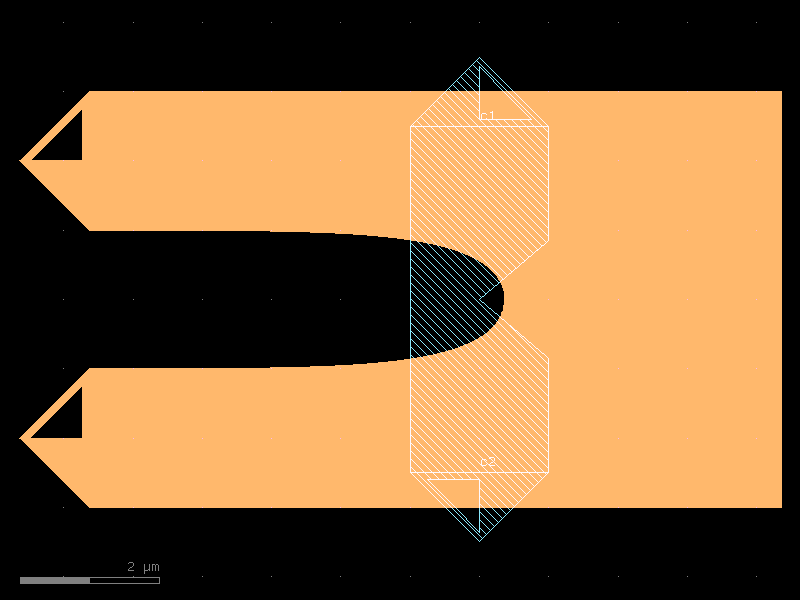
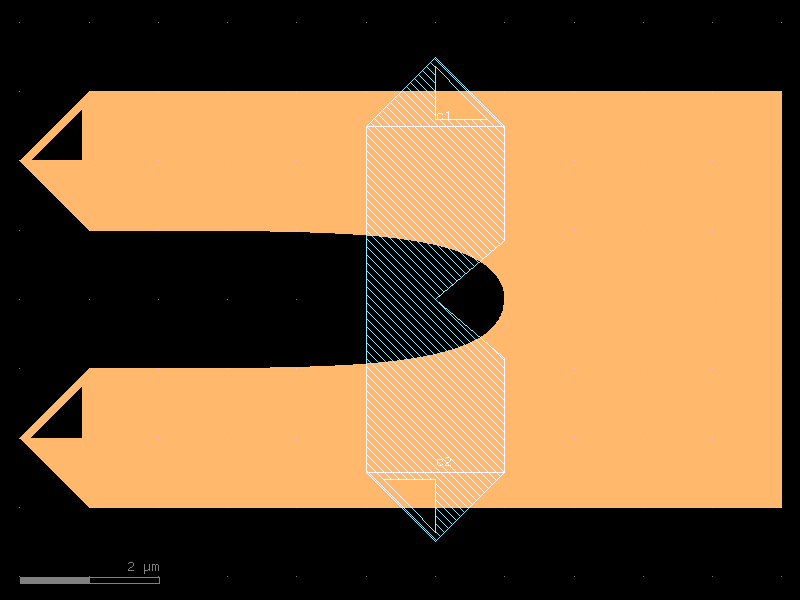
change optimal hairpin placement, update diode to get a reasonable spacing between turn in hairpin and notch

Changed region(s): [[0.4688, 0.09, 0.6875, 0.9]]

diff --git a/src/qnngds/devices/diode.py b/src/qnngds/devices/diode.py
@@ -48,11 +48,11 @@ def basic(
     ]
 
     DIODE.add_polygon(points, layer=layer)
-    DIODE.move(DIODE.center, (0, 0))
+    DIODE.move((DIODE.x + width / 2 - notch_depth, DIODE.y), (0, 0))
 
     DIODE.add_port(
         name="e1",
-        center=(0, length / 2),
+        center=(DIODE.x, length / 2),
         width=width,
         orientation=90,
         layer=layer,
@@ -61,7 +61,7 @@ def basic(
 
     DIODE.add_port(
         name="e2",
-        center=(0, -length / 2),
+        center=(DIODE.x, -length / 2),
         width=width,
         orientation=270,
         layer=layer,
@@ -91,6 +91,7 @@ def gated(
 
     channel = DIODE << gf.get_component(channel_spec)
     gate = DIODE << gf.get_component(gate_spec)
+    gate.movex(channel.ports["e1"].width / 2)
     for n, port in enumerate(channel.ports):
         DIODE.add_port(name=f"c{n + 1}", port=port)
     for n, port in enumerate(gate.ports):

diff --git a/src/qnngds/geometries.py b/src/qnngds/geometries.py
@@ -405,6 +405,8 @@ def optimal_hairpin(
     based on phidl.geometry and gdsfactory. Used instead of gdsfactory due to
     `snapping issue <https://github.com/gdsfactory/gdsfactory/pull/3816>`_.
 
+    Also centers apex of hairpin at (0, 0)
+
     Args:
         width: Width of the hairpin leads.
         pitch: Distance between the two hairpin leads. Must be greater than width.
@@ -454,6 +456,8 @@ def optimal_hairpin(
     ypts = ypts[::-ds_factor]
     ypts = ypts[::-1]  # so the last point is guaranteed to be included when downsampled
 
+    apex = (xpts[-1], 0)
+
     # Add points for the rest of meander
     xpts.append(xpts[-1] + turn_ratio * width)
     ypts.append(0)
@@ -497,6 +501,7 @@ def optimal_hairpin(
         layer=layer,
         port_type=port_type,
     )
+    c.move(apex, (0, 0))
     return c
 
 
